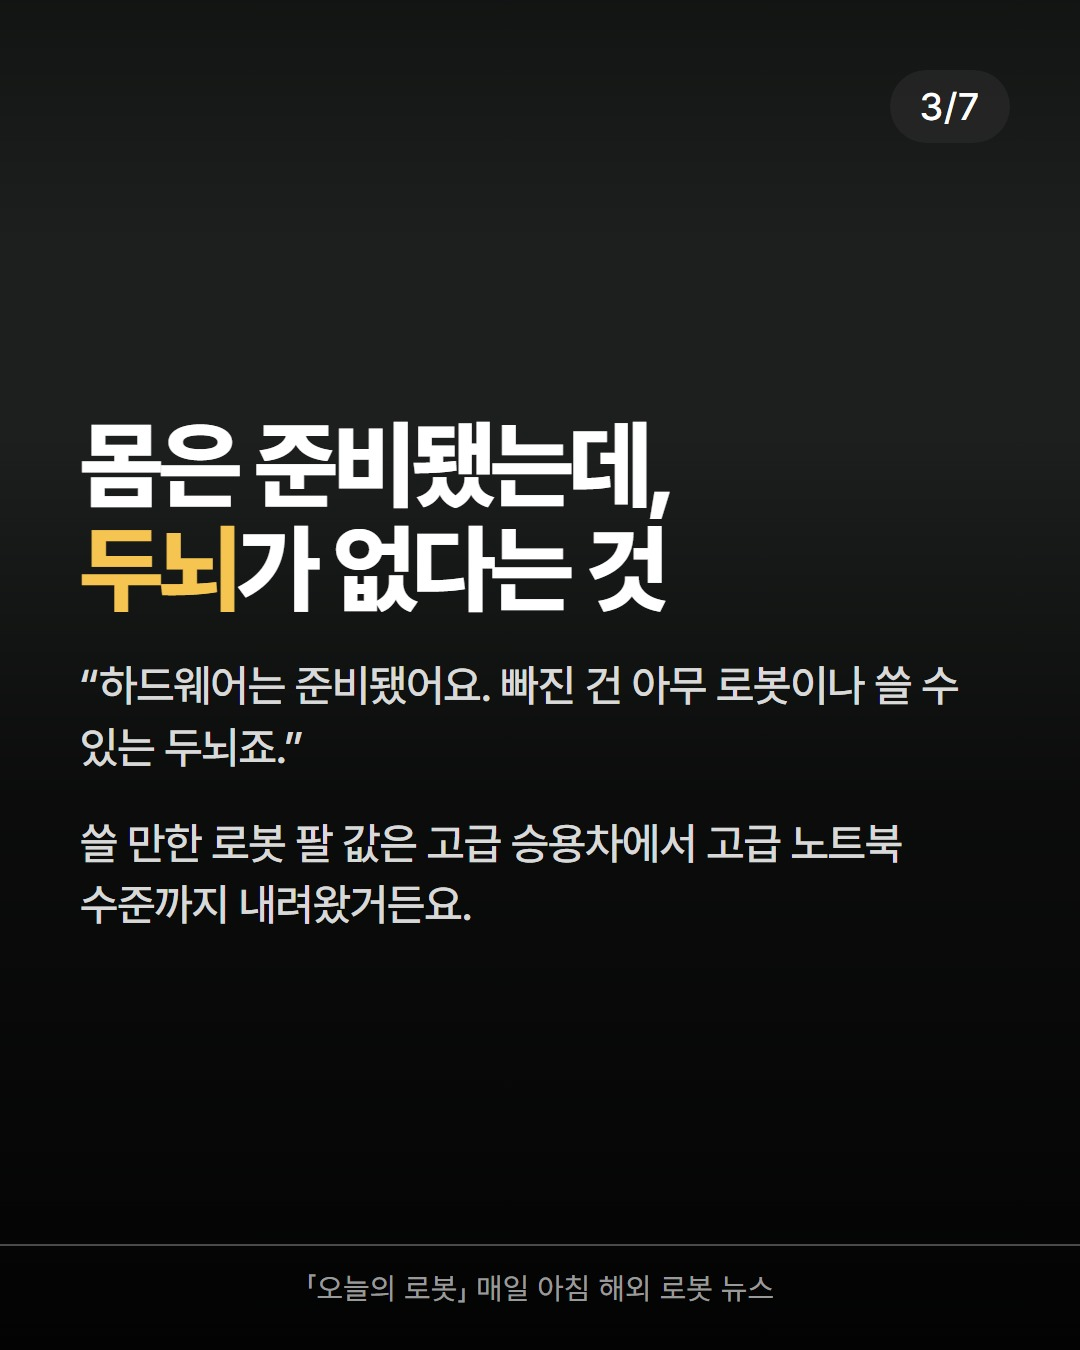
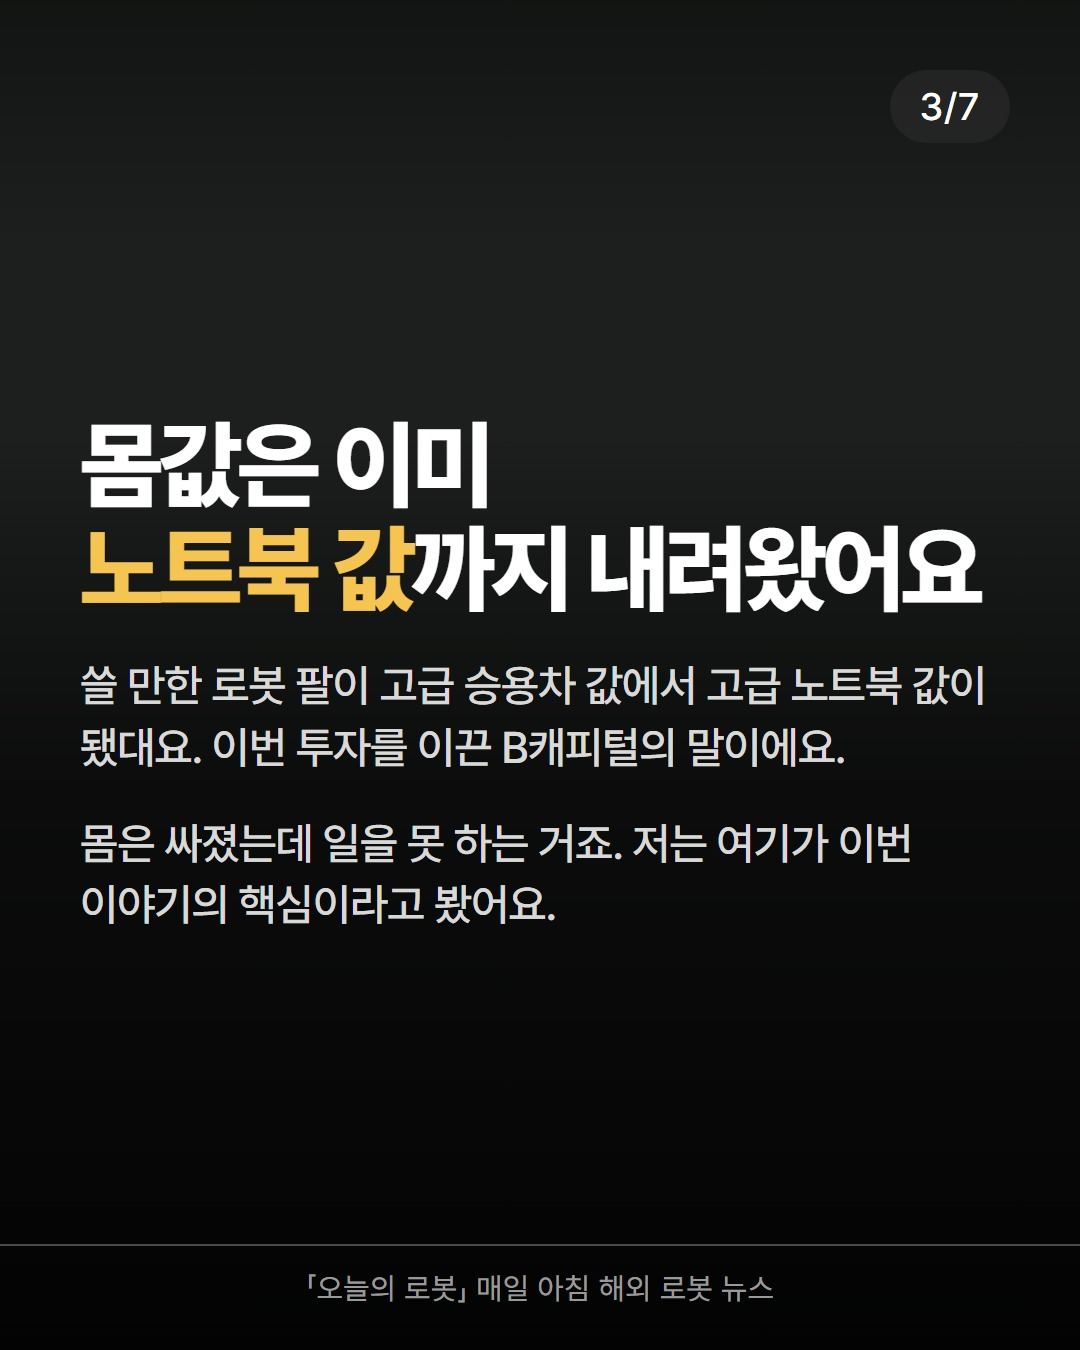
말투: 조쉬 본인 글 기준으로 STYLE 4절 재작성, check.py가 ~요 비율·보도 동사·독자 질문을 검사, No.2 재작성

Changed region(s): [[0.0611, 0.4978, 0.9167, 0.6844], [0.0611, 0.3111, 0.9167, 0.4667]]

diff --git a/check.py b/check.py
@@ -17,6 +17,7 @@ import io, json, os, re, sys
 LIMITS = {"h1": 40, "sub": 90, "row": 40}
 BANNED = ["최초", "혁명", "충격", "역대급", "미쳤", "소름", "무조건", "100%", "AI 요약", "AI가 요약"]
 IMG = (1080, 1350)
+REPORT_VERBS = ["밝혔", "설명했", "발표했", "전했", "에 따르면", "것으로 알려", "예정이다", "주목된다"]
 META = {"topic": ["휴머노이드", "모델·소프트웨어", "투자·상장", "공장·물류 도입", "자영업·중소기업", "기타"],
         "hook": ["왜", "숫자 대비", "원인→결과", "유행어 해설", "인물+주장", "결론"],  # STYLE.md 제목 공식 A~E (결론은 No.1 이전 방식)
         "photo_cover": [True, False]}
@@ -88,6 +89,18 @@ def check(day):
                 errs.append(f"{where}에 과장어 «{w}»")
 
     ig, th = post.get("caption_ig", ""), post.get("caption_threads", "")
+
+    # 말투 (STYLE.md 4절): 기사체를 기계적으로 걸러 낸다
+    prose = " ".join(plain(s) for c in cards for s in c.get("sub", []) if not s.startswith("출처")) + " " + ig + " " + th
+    ends = re.findall(r"([가-힣])[.?](?=\s|$|”|\")", prose)
+    if ends and sum(e == "요" for e in ends) / len(ends) < 0.5:
+        errs.append(f"말투: «~요»로 끝나는 문장이 {sum(e == '요' for e in ends)}/{len(ends)} — 절반 이상이어야 함 (기사체)")
+    for w in REPORT_VERBS:
+        if w in prose:
+            errs.append(f"말투: 보도 동사 «{w}»")
+    last = " ".join(plain(s) for s in cards[-1].get("sub", []) + [cards[-1].get("h1", "")]) if cards else ""
+    if "?" not in last + ig:
+        errs.append("말투: 마지막 장이나 인스타 캡션에 독자에게 묻는 문장이 없음")
     if not ig or len(ig) > 2200:
         errs.append(f"인스타 캡션 {len(ig)}자 (1~2200)")
     if not th or len(th) > 500:

diff --git a/STYLE.md b/STYLE.md
@@ -45,28 +45,36 @@
 
 로봇에 관심 있는 일반인과 중소기업·자영업자가 섞여 있다. 전공 지식 없이 읽혀야 한다. 화·목의 자영업 갈래는 «우리 가게라면 어떤 일이 바뀌나»로 마무리한다(원문 근거 안에서).
 
-## 4. 말투 — 기사체가 아니라 «사람이 말하는 글»
+## 4. 말투 — 기사를 전하는 게 아니라, 읽은 사람이 친구에게 «이거 봤어요?» 하고 말해 주는 글
 
-2026-10-23 1차본(No.2·No.3)은 요약 도구의 분석만 보고 써서 뉴스 기사체가 됐다. 본인이 «조쉬 말투가 아니다»라고 지적했다.
-그래서 조회수 10.1K 글(«코딩이 100배 빨라지자…») 본문을 직접 읽고 아래 규칙을 다시 뽑았다.
+**2026-10-23 두 번 지적받았다.** 1차본은 기사체였다. 2차본은 인터뷰 글을 흉내 냈는데도 «카드마다 사실 → ~했습니다»를 늘어놓는 구조라 여전히 기사였다.
+조쉬 **본인이 쓴 글**(«AI로 다들 빨라졌는데, 왜 달라진 건 없을까»)을 직접 읽고 다시 뽑은 규칙이다.
 
-| 조쉬가 하는 것 | ✗ 1차본(기사체) | ○ 이렇게 |
+### 조쉬 글이 움직이는 순서
+1. **숫자 하나 + 출처를 말하듯이** — «10명 중 8명은 일이 빨라졌다고 말합니다. 지난 8월 ○○ 조사 결과예요.»
+2. **그 숫자가 무슨 뜻인지 한 줄로 따로 세운다** — «빨라졌는데, 달라진 건 없다는 뜻이에요.»
+3. **독자의 하루에 대입한다** — «한 시간 걸리던 일을 20분에 끝냈다고 해 볼게요. 아낀 40분으로 우리는 보통 뭘 할까요.»
+4. **글쓴이의 해석을 1인칭으로** — «저는 이걸 능력의 차이보다 자리의 차이로 읽었어요.»
+5. **독자에게 묻고 끝낸다** — «내 자리에 없다면, 어디서 구해야 할까요?»
+
+### 규칙
+| 하는 것 | ✗ 기사체 | ○ 조쉬체 |
 |---|---|---|
-| **첫 문장 = 사람이 하는 의외의 행동 하나.** 경력은 그다음 문장 끝에 «그 사람이요»처럼 붙인다 | 드림 랩스가 시드 9천만 달러를 받았습니다 | 조엘 장은 로봇을 렌터카에 빗대 설명합니다. 엔비디아에서 로봇 학습을 연구하던 팀을 이끄는 그 사람이요. |
-| **명제는 «~다는 것.»으로 끊는다** | 두뇌가 병목이 됐습니다 | 몸은 준비됐는데, 두뇌가 없다는 것. |
-| **본문은 인물의 1인칭 말.** 원문 인용을 «~요/~죠/~거든요/~더라고요» 구어로 옮긴다 | 회사는 ~라고 설명했습니다 | “하드웨어는 준비됐어요. 빠진 건 아무 로봇이나 쓸 수 있는 두뇌죠.” |
-| **비유·구체 사례로 설명한다** (레고 블록, 대출 심사 5단계 같은 것) | 범용성이 높습니다 | 렌터카를 타도 운전은 다시 안 배우잖아요. |
-| **청자를 끌어들이는 말** — «다들 ~해 보셨을 거예요», «이렇게 생각해 보세요», «솔직히» | (없음) | 공장 로봇 다들 한 번쯤 보셨을 거예요. |
-| **그림 밑 한 줄 요약**: 그 장의 요점을 짧은 두 문장으로 | (없음) | 한 단계만 바꾸면 소소한 개선. 흐름을 통째로 바꿔야 판이 바뀐다. |
+| 어미는 **«~요»가 기본** (~어요/~예요/~거든요/~죠/~래요). «~습니다»는 강조할 때만 | 계약을 체결했습니다. 2027년 시작합니다. | 계약을 맺었대요. 시작은 2027년이에요. |
+| 보도 동사 금지 — 밝혔다·설명했다·발표했다·전했다·~에 따르면 | 회사는 ~라고 밝혔습니다 | 회사 말로는 ~래요 |
+| 숫자 다음엔 **반드시 의미 한 줄** | 순이익이 43% 줄었습니다. | 순이익이 43% 줄었어요. 돈을 덜 벌면서 로봇엔 더 쓰고 있다는 뜻이죠. |
+| **우리·여러분의 일상**에 빗댄다 | 범용 모델입니다 | 렌터카 타 보셨죠? 처음 타는 차여도 운전을 다시 배우진 않잖아요. |
+| **«저는 ~로 봤어요»** 해석을 장마다 하나 이하로 넣는다(원문 근거 안에서. 지어낸 경험담은 금지) | (없음) | 저는 여기가 이번 이야기의 핵심이라고 봤어요. |
+| **마지막 장은 독자에게 묻는다** — 댓글을 부르는 질문 | 앞으로 주목됩니다. | 여러분 가게에 이 로봇 팔이 하나 있다면, 뭘 먼저 시켜 보시겠어요? |
+| 원문 인용은 대화체로 짧게 섞는다(원문에 있는 말만) | (긴 인용 블록) | 대표 말로는 «하드웨어는 준비됐어요. 빠진 건 두뇌죠.» |
 
-- 어미: 사람 말(인용)은 «~요» 위주, 지문(설명)은 «~습니다». 한 장 안에서 둘을 섞는다.
-- 큰따옴표 발언은 **원문에 있는 인용만** 한국어 구어로 옮긴다. 원문에 인용이 없으면 1인칭으로 쓰지 않고 지문으로 쓴다.
-- 한 단락은 1~3문장이다. 한 줄짜리 결론 문장을 혼자 세운다.
-- 묻는 소제목을 쓸 수 있다(«왜 하필 트랙터 공장일까»). 물음표는 표지에서만 쓴다.
+- 카드 제목도 말하듯이 쓴다. «공장 로봇 500만 대. 그런데 대부분 한 가지 일만 해요», «렌터카 타 보셨죠?»
+- 한 단락은 1~3문장이다. 의미를 짚는 한 줄은 혼자 세운다.
 - 이모지·느낌표는 쓰지 않는다. 과장어(최초·혁명·충격)도 쓰지 않는다.
-- «AI가 요약했다», «AI 요약» 같은 말은 본문과 캡션에 쓰지 않는다(2026-10-23 본인 지시).
+- «AI가 요약했다», «AI 요약» 같은 말은 쓰지 않는다(2026-10-23 본인 지시).
+- `check.py`가 말투를 잰다: 카드 본문과 캡션 문장의 **절반 이상이 «요»로 끝나야** 하고, 보도 동사가 있으면 실패하며, 마지막 장이나 캡션에 **독자에게 묻는 문장**이 있어야 한다.
 
 ## 5. 캡션
 
-- **인스타:** 1행은 표지 제목 그대로. 빈 줄 다음에 2~3단락(단락당 1~3문장), 그 뒤 해시태그 5~8개. 원문 링크·«원문:» 줄은 넣지 않는다(2026-10-23 본인 지시). 매체 이름은 마지막 카드의 «출처 <매체>»로만 밝힌다. 첫 두 줄에서 다음 장을 넘기게 만든다.
-- **스레드(500자):** 1행은 제목. 이어서 숫자 대비 한 단락과 «왜 중요한가» 한 단락. 원문 링크·«원문» 줄은 넣지 않는다.
+- **인스타:** 1행은 표지 제목 그대로. 빈 줄 다음에 2~3단락(단락당 1~3문장)과 독자에게 묻는 한 줄(«댓글로 알려 주세요»), 그 뒤 해시태그 5~8개. 원문 링크·«원문:» 줄은 넣지 않는다(2026-10-23 본인 지시). 매체 이름은 마지막 카드의 «출처 <매체>»로만 밝힌다. 첫 두 줄에서 다음 장을 넘기게 만든다.
+- **스레드(500자):** 1행은 제목. 이어서 숫자 + 의미 한 단락, 독자에게 묻는 한 줄. 말투는 카드와 같은 «~요»체. 원문 링크·«원문» 줄은 넣지 않는다.
